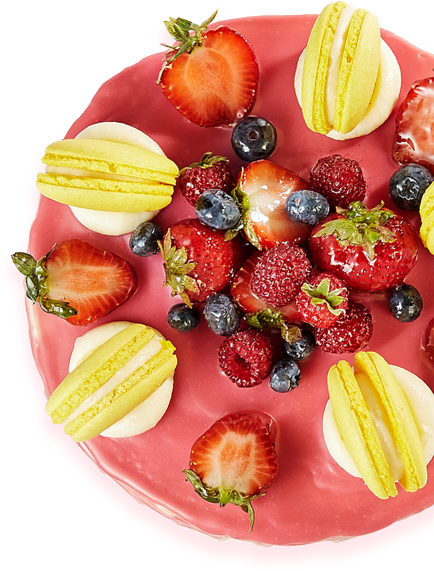
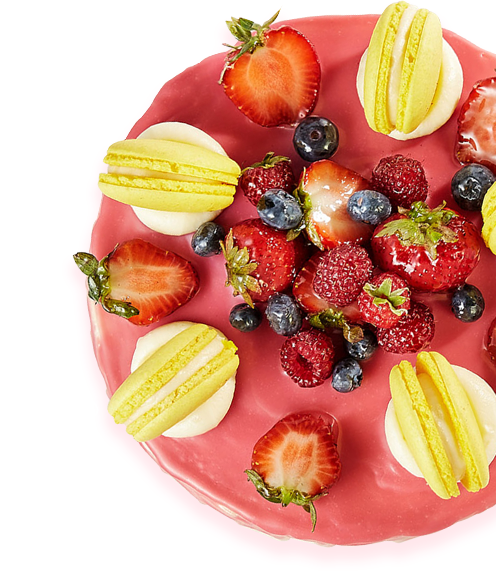
планшетная версия intro

diff --git a/source/less/block/intro.less b/source/less/block/intro.less
@@ -9,9 +9,22 @@
   background-position-y: -40px;
   background-size: cover;
   background-image: url("@{images}/intro-picture-mobile@1x.png");
-
   @media (min-resolution: @retina-dpi), (min-resolution: @retina-dppx) {
     background-image: url("@{images}/intro-picture-mobile@2x.png");
+  }
+  @media (min-width: @tablet-width) {
+    display: flex;
+    flex-direction: column;
+    margin-bottom: 0;
+    width: 768px;
+    height: 580px;
+    background-image: url("@{images}/intro-picture-tablet@1x.png");
+    background-size: 496px 571px;
+    background-position-x: right;
+    background-position-y: 13px;
+    @media (min-resolution: @retina-dpi), (min-resolution: @retina-dppx) {
+      background-image: url("@{images}/intro-picture-tablet@2x.png");
+    }
   }
 }
 
@@ -26,6 +39,17 @@
   font-size: 40px;
   font-weight: 700;
   line-height: 37px;
+  @media (min-width: @tablet-width) {
+    margin: 0;
+    margin-left: 48px;
+    margin-top: 85px;
+    margin-bottom: 30px;
+    padding: 0;
+    width: 270px;
+    font-size: 60px;
+    line-height: 55px;
+    text-align: left;
+  }
 }
 
 .intro__tagline {
@@ -36,10 +60,26 @@
   font-size: 22px;
   line-height: 10px;
   color: @tagline-color;
+  @media (min-width: @tablet-width) {
+    margin-left: 48px;
+    margin-bottom: 55px;
+    text-align: left;
+    font-size: 36px;
+    line-height: 77px;
+  }
 }
 
 .intro__text-wrapper {
   margin-bottom: 57px;
+
+  @media (min-width: @tablet-width) {
+    margin: 0;
+    margin-left: 65px;
+    padding: 0;
+    order: 2;
+    display: flex;
+    width: 460px;
+  }
 }
 
 .intro__text {
@@ -52,4 +92,20 @@
   font-size: 14px;
   font-weight: 400;
   text-align: left;
+
+  @media (min-width: @tablet-width) {
+    width: 85px;
+
+    &:last-child {
+      width: 170px;
+    }
+  }
+}
+
+.intro__button {
+  @media (min-width: @tablet-width) {
+    margin: 0;
+    margin-left: 48px;
+    margin-bottom: 150px;
+  }
 }

diff --git a/source/less/block/icon.less b/source/less/block/icon.less
@@ -1,6 +1,5 @@
 .icon__natural-ingredients {
   position: relative;
-
   &::before {
     position: absolute;
     top: -2px;
@@ -11,12 +10,18 @@
     background-image: url("@{images}/icon--natural-ingredients.svg");
     background-repeat: no-repeat;
     background-size: 33px 33px;
+    @media (min-width: @tablet-width) {
+      width: 55px;
+      height: 55px;
+      background-size: 55px 55px;
+      top: -25px;
+      left: -65px;
+    }
   }
 }
 
 .icon__deliveri {
   position: relative;
-
   &::before {
     position: absolute;
     top: -2px;
@@ -27,6 +32,13 @@
     background-image: url("@{images}/icon--deliveri.svg");
     background-repeat: no-repeat;
     background-size: 33px 33px;
+    @media (min-width: @tablet-width) {
+      width: 55px;
+      height: 55px;
+      background-size: 55px 55px;
+      top: -25px;
+      left: -65px;
+    }
   }
 }
 
@@ -56,7 +68,6 @@
 
 .icon__natural-ingredients-big {
   position: relative;
-
   &::after {
     position: absolute;
     top: -70px;
@@ -72,7 +83,6 @@
 
 .icon__tort {
   position: relative;
-
   &::after {
     position: absolute;
     top: -60px;
